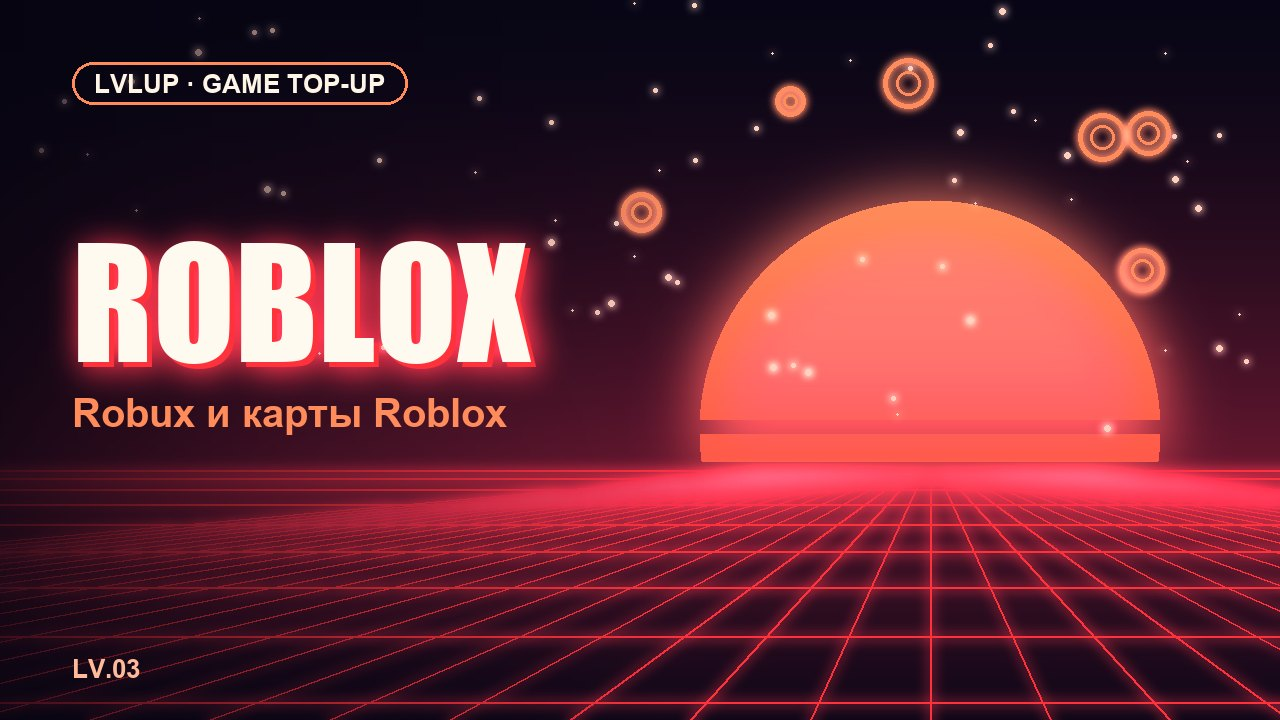
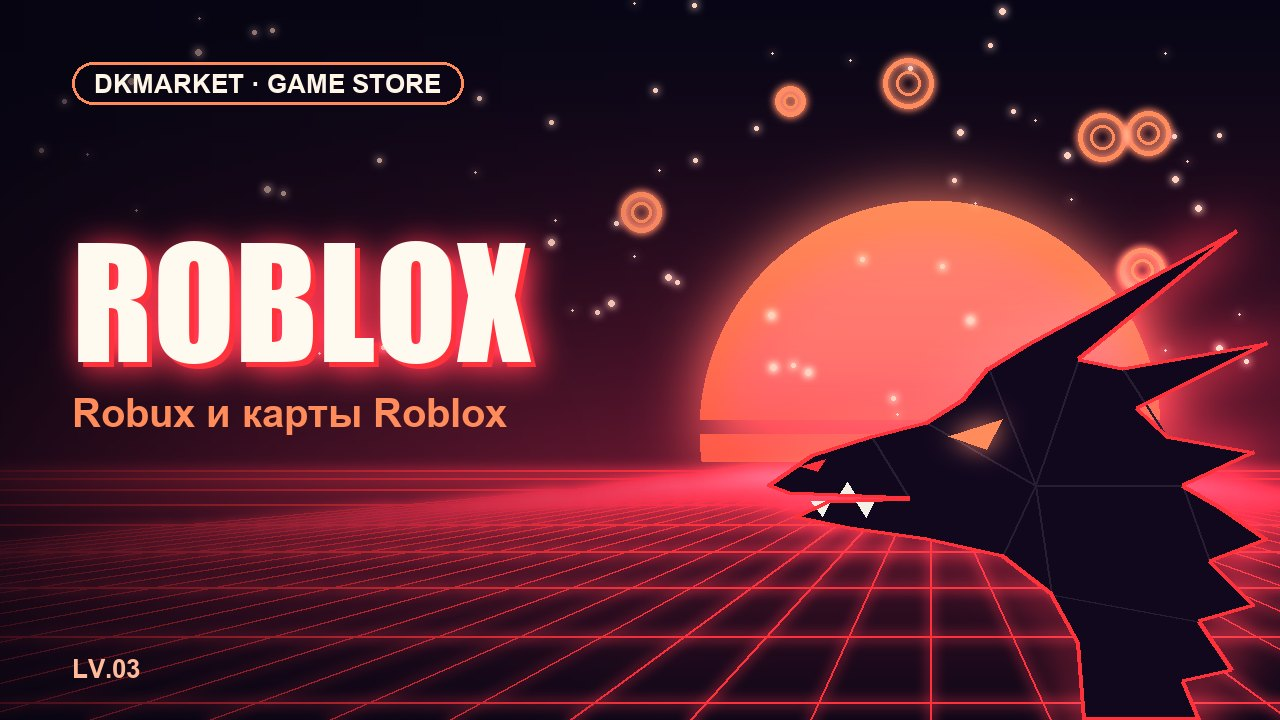
Rebrand to DKMARKET with an original neon dragon
- scripts/dragon.py: low-poly dragon head drawn from polygons
- Banners show the dragon over the retro sun in each section colour
- assets/logo.png: round avatar for @BotFather
- Rename LVLUP -> DKMARKET everywhere

Changed region(s): [[0.5938, 0.275, 1.0, 1.0], [0.0625, 0.0611, 0.375, 0.1528]]

diff --git a/admin_web/src/main.jsx b/admin_web/src/main.jsx
@@ -16,13 +16,13 @@ async function api(path, options = {}, token) {
     throw new Error('Нет соединения с сервером. Проверьте, что контейнеры запущены.')
   }
   const content = await response.json().catch(() => ({}))
-  if (response.status === 401) window.dispatchEvent(new Event('lvlup-session-expired'))
+  if (response.status === 401) window.dispatchEvent(new Event('dkmarket-session-expired'))
   if (!response.ok) throw new Error(content.detail || 'Не удалось выполнить запрос')
   return content
 }
 
 function Setup() {
-  return <main className="auth-page"><section className="login-card setup"><span className="eyebrow">LVLUP</span><h1>Настройте доступ</h1><p>Панель запущена, но учётная запись администратора ещё не создана.</p><ol><li>Сгенерируйте парольный хэш: <code>docker compose run --rm admin-api python -m admin_api.password</code></li><li>Добавьте вывод команды в <code>ADMIN_PASSWORD_HASH</code> и создайте секрет минимум из 32 символов в <code>ADMIN_JWT_SECRET</code> в файле <code>.env</code>.</li><li>Перезапустите: <code>docker compose up -d admin-api</code>.</li></ol><p className="subtle">Пароль остаётся только у вас: в проект сохраняется его Argon2-хэш.</p></section></main>
+  return <main className="auth-page"><section className="login-card setup"><span className="eyebrow">DKMARKET</span><h1>Настройте доступ</h1><p>Панель запущена, но учётная запись администратора ещё не создана.</p><ol><li>Сгенерируйте парольный хэш: <code>docker compose run --rm admin-api python -m admin_api.password</code></li><li>Добавьте вывод команды в <code>ADMIN_PASSWORD_HASH</code> и создайте секрет минимум из 32 символов в <code>ADMIN_JWT_SECRET</code> в файле <code>.env</code>.</li><li>Перезапустите: <code>docker compose up -d admin-api</code>.</li></ol><p className="subtle">Пароль остаётся только у вас: в проект сохраняется его Argon2-хэш.</p></section></main>
 }
 
 function Login({ onLogin }) {
@@ -32,11 +32,11 @@ function Login({ onLogin }) {
   const [busy, setBusy] = useState(false)
   const submit = async event => {
     event.preventDefault(); setBusy(true); setError('')
-    try { const data = await api('/auth/login', { method: 'POST', body: JSON.stringify({ username, password }) }); localStorage.setItem('lvlup-admin-token', data.access_token); onLogin(data.access_token) }
+    try { const data = await api('/auth/login', { method: 'POST', body: JSON.stringify({ username, password }) }); localStorage.setItem('dkmarket-admin-token', data.access_token); onLogin(data.access_token) }
     catch (err) { setError(err.message) }
     finally { setBusy(false) }
   }
-  return <main className="auth-page"><form className="login-card" onSubmit={submit}><span className="eyebrow">LVLUP</span><h1>Администрирование</h1><p>Войдите, чтобы управлять заказами и поддержкой.</p><label>Логин<input autoComplete="username" value={username} onChange={e => setUsername(e.target.value)} required /></label><label>Пароль<input type="password" autoComplete="current-password" value={password} onChange={e => setPassword(e.target.value)} required /></label>{error && <p className="error">{error}</p>}<button className="primary" disabled={busy}>{busy ? 'Входим…' : 'Войти'}</button></form></main>
+  return <main className="auth-page"><form className="login-card" onSubmit={submit}><span className="eyebrow">DKMARKET</span><h1>Администрирование</h1><p>Войдите, чтобы управлять заказами и поддержкой.</p><label>Логин<input autoComplete="username" value={username} onChange={e => setUsername(e.target.value)} required /></label><label>Пароль<input type="password" autoComplete="current-password" value={password} onChange={e => setPassword(e.target.value)} required /></label>{error && <p className="error">{error}</p>}<button className="primary" disabled={busy}>{busy ? 'Входим…' : 'Войти'}</button></form></main>
 }
 
 function Stat({ label, value, accent }) { return <article className={`stat ${accent || ''}`}><span>{label}</span><strong>{value}</strong></article> }
@@ -89,7 +89,7 @@ function Promocodes({ token, refreshKey }) {
   useEffect(() => { load() }, [token, refreshKey])
   const create = async event => { event.preventDefault(); setBusy(true); try { await api('/promocodes', { method: 'POST', body: JSON.stringify({ code, discount_percent: Number(percent), usage_limit: limit ? Number(limit) : null }) }, token); setCode(''); setPercent('10'); setLimit(''); await load() } catch (err) { setError(err.message) } finally { setBusy(false) } }
   const toggle = async item => { try { await api(`/promocodes/${item.id}/state`, { method: 'POST', body: JSON.stringify({ active: !item.active }) }, token); await load() } catch (err) { setError(err.message) } }
-  return <section><div className="page-title"><div><h2>Промокоды</h2><p>Скидка применяется к товарам до списания бонусов.</p></div></div><form className="promo-form" onSubmit={create}><label>Код<input value={code} onChange={e => setCode(e.target.value.toUpperCase())} placeholder="LVLUP10" maxLength="40" required /></label><label>Скидка, %<input value={percent} onChange={e => setPercent(e.target.value)} type="number" min="1" max="100" required /></label><label>Лимит использований<input value={limit} onChange={e => setLimit(e.target.value)} type="number" min="1" placeholder="Без лимита" /></label><button className="primary" disabled={busy}>{busy ? 'Создаём…' : 'Создать промокод'}</button></form>{error && <p className="error">{error}</p>}<div className="data-table promo-table"><div className="thead"><span>Код</span><span>Скидка</span><span>Использования</span><span>Статус</span><span /></div>{items.length ? items.map(item => <div className="trow" key={item.id}><span><b>{item.code}</b></span><span>{item.discount_percent}%</span><span>{item.used_count} / {item.usage_limit ?? '∞'}</span><span><Badge type={item.active ? 'open' : 'closed'}>{item.active ? 'Активен' : 'Выключен'}</Badge></span><button className="secondary" onClick={() => toggle(item)}>{item.active ? 'Выключить' : 'Включить'}</button></div>) : <Empty text="Промокодов пока нет." />}</div></section>
+  return <section><div className="page-title"><div><h2>Промокоды</h2><p>Скидка применяется к товарам до списания бонусов.</p></div></div><form className="promo-form" onSubmit={create}><label>Код<input value={code} onChange={e => setCode(e.target.value.toUpperCase())} placeholder="DKMARKET10" maxLength="40" required /></label><label>Скидка, %<input value={percent} onChange={e => setPercent(e.target.value)} type="number" min="1" max="100" required /></label><label>Лимит использований<input value={limit} onChange={e => setLimit(e.target.value)} type="number" min="1" placeholder="Без лимита" /></label><button className="primary" disabled={busy}>{busy ? 'Создаём…' : 'Создать промокод'}</button></form>{error && <p className="error">{error}</p>}<div className="data-table promo-table"><div className="thead"><span>Код</span><span>Скидка</span><span>Использования</span><span>Статус</span><span /></div>{items.length ? items.map(item => <div className="trow" key={item.id}><span><b>{item.code}</b></span><span>{item.discount_percent}%</span><span>{item.used_count} / {item.usage_limit ?? '∞'}</span><span><Badge type={item.active ? 'open' : 'closed'}>{item.active ? 'Активен' : 'Выключен'}</Badge></span><button className="secondary" onClick={() => toggle(item)}>{item.active ? 'Выключить' : 'Включить'}</button></div>) : <Empty text="Промокодов пока нет." />}</div></section>
 }
 
 function Empty({ text }) { return <div className="empty">{text}</div> }
@@ -105,17 +105,17 @@ function Support({ token, refreshKey }) {
 }
 
 function App() {
-  const [configured, setConfigured] = useState(null); const [token, setToken] = useState(localStorage.getItem('lvlup-admin-token')); const [tab, setTab] = useState('overview'); const [dashboard, setDashboard] = useState(null); const [users, setUsers] = useState(null); const [orders, setOrders] = useState(null); const [error, setError] = useState(''); const [refresh, setRefresh] = useState(0); const [loading, setLoading] = useState(false)
+  const [configured, setConfigured] = useState(null); const [token, setToken] = useState(localStorage.getItem('dkmarket-admin-token')); const [tab, setTab] = useState('overview'); const [dashboard, setDashboard] = useState(null); const [users, setUsers] = useState(null); const [orders, setOrders] = useState(null); const [error, setError] = useState(''); const [refresh, setRefresh] = useState(0); const [loading, setLoading] = useState(false)
   useEffect(() => { api('/auth/status').then(data => setConfigured(data.configured)).catch(() => setConfigured(false)) }, [])
-  useEffect(() => { const expire = () => { localStorage.removeItem('lvlup-admin-token'); setToken(null); setError('') }; window.addEventListener('lvlup-session-expired', expire); return () => window.removeEventListener('lvlup-session-expired', expire) }, [])
+  useEffect(() => { const expire = () => { localStorage.removeItem('dkmarket-admin-token'); setToken(null); setError('') }; window.addEventListener('dkmarket-session-expired', expire); return () => window.removeEventListener('dkmarket-session-expired', expire) }, [])
   const load = async () => { if (!token) return; setLoading(true); try { const [overview, userList, orderList] = await Promise.all([api('/dashboard', {}, token), api('/users', {}, token), api('/orders', {}, token)]); setDashboard(overview); setUsers(userList); setOrders(orderList); setError('') } catch (err) { setError(err.message) } finally { setLoading(false) } }
   useEffect(() => { load() }, [token, refresh])
   if (configured === null) return <Loading full text="Проверяем настройки панели…" />
   if (configured === false) return <Setup />
   if (!token) return <Login onLogin={setToken} />
   const tabs = [['overview', 'Обзор', 'Главная'], ['users', 'Пользователи', 'Клиенты'], ['catalog', 'Каталог', 'Товары'], ['orders', 'Заказы', 'Заказы'], ['promos', 'Промокоды', 'Промо'], ['support', 'Поддержка', 'Чаты']]
-  const logout = () => { localStorage.removeItem('lvlup-admin-token'); setToken(null) }
-  return <div className="shell"><header className="mobile-brand"><b>LVLUP</b><button onClick={logout}>Выйти</button></header><aside className="sidebar"><div className="brand"><b>LVLUP</b><span>Digital<br />Админ-панель</span></div><nav>{tabs.map(([key, label]) => <button key={key} className={tab === key ? 'active' : ''} onClick={() => setTab(key)}>{label}</button>)}</nav><button className="logout" onClick={logout}>Выйти</button></aside><main className="content">{error && <div className="error error-with-action"><span>{error}</span><button onClick={() => setRefresh(value => value + 1)}>Повторить</button></div>}{loading ? <Loading /> : <>{tab === 'overview' && <Overview data={dashboard} />}{tab === 'users' && <Users data={users} />}{tab === 'catalog' && <Catalog token={token} refreshKey={refresh} />}{tab === 'orders' && <Orders data={orders} />}{tab === 'promos' && <Promocodes token={token} refreshKey={refresh} />}{tab === 'support' && <Support token={token} refreshKey={refresh} />}</>}</main><nav className="bottom-nav">{tabs.map(([key, , mobileLabel]) => <button key={key} className={tab === key ? 'active' : ''} onClick={() => setTab(key)}>{mobileLabel}</button>)}</nav></div>
+  const logout = () => { localStorage.removeItem('dkmarket-admin-token'); setToken(null) }
+  return <div className="shell"><header className="mobile-brand"><b>DKMARKET</b><button onClick={logout}>Выйти</button></header><aside className="sidebar"><div className="brand"><b>DKMARKET</b><span>Digital<br />Админ-панель</span></div><nav>{tabs.map(([key, label]) => <button key={key} className={tab === key ? 'active' : ''} onClick={() => setTab(key)}>{label}</button>)}</nav><button className="logout" onClick={logout}>Выйти</button></aside><main className="content">{error && <div className="error error-with-action"><span>{error}</span><button onClick={() => setRefresh(value => value + 1)}>Повторить</button></div>}{loading ? <Loading /> : <>{tab === 'overview' && <Overview data={dashboard} />}{tab === 'users' && <Users data={users} />}{tab === 'catalog' && <Catalog token={token} refreshKey={refresh} />}{tab === 'orders' && <Orders data={orders} />}{tab === 'promos' && <Promocodes token={token} refreshKey={refresh} />}{tab === 'support' && <Support token={token} refreshKey={refresh} />}</>}</main><nav className="bottom-nav">{tabs.map(([key, , mobileLabel]) => <button key={key} className={tab === key ? 'active' : ''} onClick={() => setTab(key)}>{mobileLabel}</button>)}</nav></div>
 }
 
 createRoot(document.getElementById('root')).render(<App />)

diff --git a/admin_web/index.html b/admin_web/index.html
@@ -4,7 +4,7 @@
     <meta charset="UTF-8" />
     <meta name="viewport" content="width=device-width, initial-scale=1.0" />
     <meta name="theme-color" content="#121826" />
-    <title>LVLUP — администрирование</title>
+    <title>DKMARKET — администрирование</title>
   </head>
   <body>
     <div id="root"></div>

diff --git a/scripts/make_banners.py b/scripts/make_banners.py
@@ -1,4 +1,4 @@
-"""Render the section banners: a retro arcade scene (neon sun, perspective grid) per section colour.
+"""Render the DKMARKET banners and logo: a neon dragon over a retro sun and grid, one colour per section.
 
 Run locally after changing the section list:
     python -m scripts.make_banners
@@ -12,14 +12,16 @@ from pathlib import Path
 
 from PIL import Image, ImageChops, ImageDraw, ImageFilter, ImageFont
 
+from scripts.dragon import draw_dragon
+
 ROOT = Path(__file__).resolve().parent.parent
 OUT = ROOT / "assets" / "banners"
 SIZE = (1280, 720)
-BRAND = "LVLUP"
+BRAND = "DKMARKET"
 
 # key: (title, subtitle, primary RGB, secondary RGB)
 SECTIONS: dict[str, tuple[str, str, tuple[int, int, int], tuple[int, int, int]]] = {
-    "menu": ("LVLUP", "Донат в любимые игры", (255, 70, 160), (255, 190, 60)),
+    "menu": ("DKMARKET", "Донат в любимые игры", (255, 70, 160), (255, 190, 60)),
     "topup": ("TOP-UP", "Валюта на игровой аккаунт", (255, 60, 120), (255, 170, 40)),
     "roblox": ("ROBLOX", "Robux и карты Roblox", (255, 50, 60), (255, 140, 90)),
     "cards": ("GAME CARDS", "PlayStation · Xbox · Nintendo", (90, 120, 255), (60, 220, 255)),
@@ -119,6 +121,8 @@ def render(title: str, subtitle: str, primary, secondary, number: int) -> Image.
         image = ImageChops.add(image, glow(layer, blur, strength))
         image = ImageChops.lighter(image, layer)
 
+    image = draw_dragon(image, (730, 180, 545), (18, 8, 30), primary, secondary, width=4)
+
     # Dark panel on the left keeps the text readable.
     shade = Image.new("L", SIZE)
     shade_draw = ImageDraw.Draw(shade)
@@ -138,7 +142,7 @@ def render(title: str, subtitle: str, primary, secondary, number: int) -> Image.
 
     small = ImageFont.truetype(str(TEXT_FONT), 26)
     sub_font = ImageFont.truetype(str(TEXT_FONT), 40)
-    tag = f"{BRAND} · GAME TOP-UP"
+    tag = f"{BRAND} · GAME STORE"
     draw.rounded_rectangle([margin, 62, margin + 44 + small.getlength(tag), 104], radius=21, outline=secondary, width=3)
     draw.text((margin + 22, 69), tag, font=small, fill=(255, 245, 230))
     draw.text((margin, title_y + title_font.size + 30), subtitle, font=sub_font, fill=secondary)
@@ -146,8 +150,37 @@ def render(title: str, subtitle: str, primary, secondary, number: int) -> Image.
     return image
 
 
+def logo(size: int = 640) -> Image.Image:
+    """Round-friendly avatar for @BotFather: the dragon in front of the striped sun."""
+    primary, secondary = SECTIONS["menu"][2], SECTIONS["menu"][3]
+    image = Image.new("RGB", (size, size), (10, 6, 24))
+    draw = ImageDraw.Draw(image)
+    for y in range(size):
+        draw.line([(0, y), (size, y)], fill=mix((10, 6, 24), mix((20, 8, 40), primary, 0.35), (y / size) ** 1.8))
+    sun_layer = Image.new("RGB", (size, size))
+    sun_draw = ImageDraw.Draw(sun_layer)
+    cx, cy, r = size * 0.52, size * 0.5, size * 0.36
+    for y in range(int(cy - r), int(cy + r)):
+        half = math.sqrt(max(0.0, r * r - (y - cy) ** 2))
+        t = (y - (cy - r)) / (2 * r)
+        if not (t > 0.55 and (y // 12) % 3 == 0):
+            sun_draw.line([(cx - half, y), (cx + half, y)], fill=mix(secondary, primary, t))
+    image = ImageChops.add(image, glow(sun_layer, 26, 0.8))
+    image = ImageChops.lighter(image, sun_layer)
+    image = draw_dragon(image, (size * 0.04, size * 0.1, size * 0.92), (18, 8, 30), primary, secondary, width=6)
+    # Everything outside the circle is cleared so the avatar stays clean after Telegram's round crop.
+    inside = Image.new("L", (size, size))
+    ImageDraw.Draw(inside).ellipse([0, 0, size - 1, size - 1], fill=255)
+    image = Image.composite(image, Image.new("RGB", (size, size), (10, 6, 24)), inside)
+    ring = Image.new("L", (size, size))
+    ImageDraw.Draw(ring).ellipse([6, 6, size - 6, size - 6], outline=255, width=10)
+    return Image.composite(Image.new("RGB", (size, size), primary), image, ring)
+
+
 def main() -> None:
     OUT.mkdir(parents=True, exist_ok=True)
+    logo().save(ROOT / "assets" / "logo.png", optimize=True)
+    print("assets/logo.png  (аватарка: @BotFather → /setuserpic)")
     for number, (key, spec) in enumerate(SECTIONS.items(), start=1):
         path = OUT / f"{key}.jpg"
         render(*spec, number=number).save(path, "JPEG", quality=86, optimize=True, progressive=True)

diff --git a/scripts/dragon.py b/scripts/dragon.py
@@ -1,0 +1,53 @@
+"""The DKMARKET dragon: an original low-poly dragon head drawn as polygons (no third-party artwork)."""
+from __future__ import annotations
+
+from PIL import Image, ImageChops, ImageDraw, ImageFilter
+
+# Head in profile facing left, in a 1000×1000 box.
+HEAD = [
+    (70, 560), (150, 505), (260, 470), (360, 445), (430, 400), (475, 345), (540, 305),   # snout → brow → forehead
+    (930, 95), (640, 330),                                                                # main horn
+    (720, 345), (985, 300), (745, 420),                                                   # second horn
+    (800, 470), (960, 500), (830, 560),                                                   # cheek spike
+    (900, 600), (985, 660), (880, 700), (960, 780), (860, 810), (920, 900), (830, 920),   # back spikes along the neck
+    (860, 990), (650, 990), (640, 850), (590, 760),                                       # curved neck
+    (500, 690), (360, 660), (220, 640), (120, 620),                                       # lower jaw
+    (180, 590), (330, 585), (110, 575),                                                   # open mouth
+]
+EYE = [(400, 470), (500, 440), (470, 495)]
+NOSTRIL = [(130, 525), (175, 512), (160, 535)]
+# Facets: lines from the brow that give the low-poly look.
+FACETS = [((475, 345), (560, 560)), ((360, 445), (560, 560)), ((560, 560), (830, 560)), ((590, 760), (860, 810)), ((830, 560), (880, 700)), ((560, 560), (590, 760)),
+          ((560, 560), (500, 690)), ((640, 330), (560, 560)), ((720, 345), (800, 470)), ((260, 470), (330, 585))]
+TEETH = [[(150, 590), (170, 618), (185, 590)], [(230, 588), (250, 620), (265, 588)], [(200, 578), (215, 555), (232, 580)]]
+
+
+def _scale(points, box, flip):
+    x0, y0, size = box
+    return [(x0 + (1000 - x if flip else x) * size / 1000, y0 + y * size / 1000) for x, y in points]
+
+
+def draw_dragon(canvas: Image.Image, box: tuple[float, float, float], fill, glow_color, eye_color, flip: bool = False, width: int = 4) -> Image.Image:
+    """Paint the dragon into `canvas` at (x, y, size) with a neon outline and glow; returns the new image."""
+    size = canvas.size
+    lines = Image.new("RGB", size)
+    draw = ImageDraw.Draw(lines)
+    head = _scale(HEAD, box, flip)
+    draw.line(head + head[:1], fill=glow_color, width=width * 3, joint="curve")
+    glow = lines.filter(ImageFilter.GaussianBlur(width * 6))
+    out = ImageChops.add(canvas, glow)
+
+    body = ImageDraw.Draw(out)
+    body.polygon(head, fill=fill)
+    for a, b in FACETS:
+        body.line(_scale([a, b], box, flip), fill=tuple(min(255, c + 22) for c in fill), width=max(1, width // 2))
+    for tooth in TEETH:
+        body.polygon(_scale(tooth, box, flip), fill=(245, 240, 230))
+    body.line(head + head[:1], fill=glow_color, width=width, joint="curve")
+    body.polygon(_scale(NOSTRIL, box, flip), fill=glow_color)
+
+    eye_layer = Image.new("RGB", size)
+    ImageDraw.Draw(eye_layer).polygon(_scale(EYE, box, flip), fill=eye_color)
+    out = ImageChops.add(out, eye_layer.filter(ImageFilter.GaussianBlur(width * 3)))
+    ImageDraw.Draw(out).polygon(_scale(EYE, box, flip), fill=eye_color)
+    return out

diff --git a/config.py b/config.py
@@ -7,9 +7,9 @@ from pydantic_settings import BaseSettings, SettingsConfigDict
 class Settings(BaseSettings):
     model_config = SettingsConfigDict(env_file=".env", extra="ignore")
     bot_token: str = ""
-    database_url: str = "postgresql+asyncpg://lvlup:change_me@db:5432/lvlup"
+    database_url: str = "postgresql+asyncpg://dkmarket:change_me@db:5432/dkmarket"
     admin_ids: str = ""
-    store_name: str = "LVLUP"
+    store_name: str = "DKMARKET"
     support_contact: str = "@support"
     rules_text: str = "Перед оформлением проверьте название, регион и цену выбранного товара."
     legal_document_date: str = "12 октября 2026 года"

diff --git a/admin_api/main.py b/admin_api/main.py
@@ -20,7 +20,7 @@ from admin_api.settings import get_admin_settings
 from database.models import Order, Product, PromoCode, SupportMessage, SupportTicket, User
 from database.session import SessionLocal
 
-app = FastAPI(title="LVLUP Admin API", docs_url=None, redoc_url=None)
+app = FastAPI(title="DKMARKET Admin API", docs_url=None, redoc_url=None)
 bearer = HTTPBearer(auto_error=False)
 password_hasher = PasswordHasher()
 

diff --git a/docs/DEPLOYMENT.md b/docs/DEPLOYMENT.md
@@ -1,4 +1,4 @@
-# Запуск LVLUP
+# Запуск DKMARKET
 
 Всё ставится одной командой `scripts/setup.sh`. Скрипт спрашивает токен бота, ваш Telegram ID, контакт поддержки, ключ ReSellCodes и пароль админки. Пароль базы и секреты он генерирует сам, затем собирает и запускает контейнеры: бот, PostgreSQL, ежедневные бэкапы, админку. Повторный запуск безопасен: Enter оставляет текущие значения.
 
@@ -25,7 +25,7 @@ bash scripts/setup.sh --local
 ```bash
 ssh root@<IP сервера>
 apt-get update && apt-get install -y git
-git clone <репозиторий LVLUP> ~/lvlup && cd ~/lvlup
+git clone <репозиторий DKMARKET> ~/dkmarket && cd ~/dkmarket
 bash scripts/setup.sh
 ```
 
@@ -38,17 +38,17 @@ docker compose run --rm bot python -m scripts.snapshot_import --probe
 docker compose run --rm bot python -m scripts.snapshot_import --usd-rub 95 --markup 15
 ```
 
-Если ключ ReSellCodes общий с другим ботом, у них общий дневной лимит поставщика (5000 запросов). Полная выгрузка LVLUP тратит примерно 300–700.
+Если ключ ReSellCodes общий с другим ботом, у них общий дневной лимит поставщика (5000 запросов). Полная выгрузка DKMARKET тратит примерно 300–700.
 
 ## Обновление кода
 
 ```bash
-cd ~/lvlup && git pull && docker compose --profile public up -d --build
+cd ~/dkmarket && git pull && docker compose --profile public up -d --build
 ```
 
 ## Бэкапы
 
-Контейнер `db-backup` раз в сутки делает дамп базы и хранит дампы 14 дней (том `lvlup_postgres_backups`). Копируйте их в отдельное хранилище и хотя бы раз проверьте восстановление:
+Контейнер `db-backup` раз в сутки делает дамп базы и хранит дампы 14 дней (том `dkmarket_postgres_backups`). Копируйте их в отдельное хранилище и хотя бы раз проверьте восстановление:
 
 ```bash
 docker compose exec db-backup ls -lh /backups

diff --git a/README.md b/README.md
@@ -1,4 +1,4 @@
-# LVLUP — бот доната в игры
+# DKMARKET — бот доната в игры
 
 Telegram-бот на `aiogram 3` и PostgreSQL для доната в мобильные и онлайн-игры: внутриигровая валюта десятков игр, Robux и карты Roblox, игровые карты (PlayStation, Xbox, Nintendo, Razer Gold…) и ключи игр для консолей и ПК (не Steam). Бот запоминает игровой ID: в «🎮 Мои игры» следующий донат делается в один тап. Корзина, личный кабинет, бонусы, промокоды и поддержка работают в одном чате.
 
